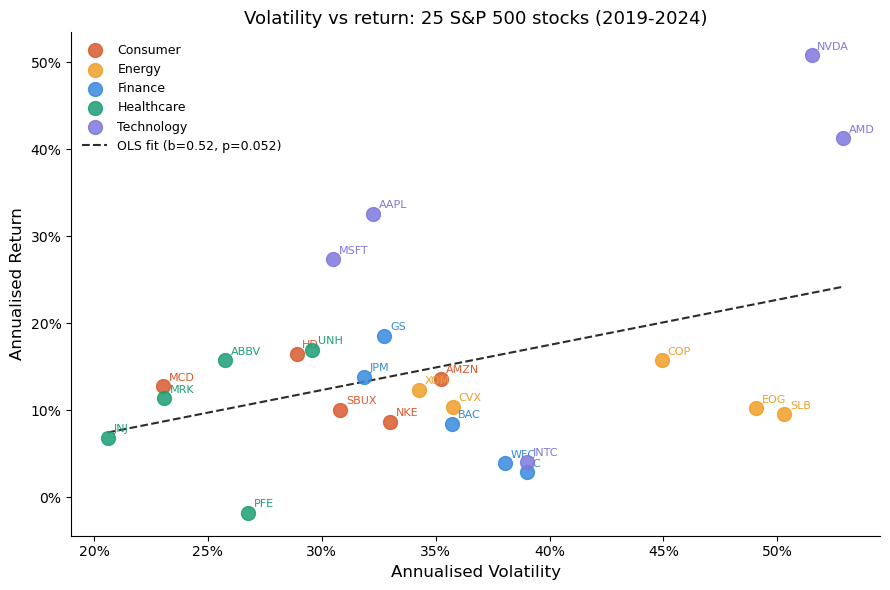
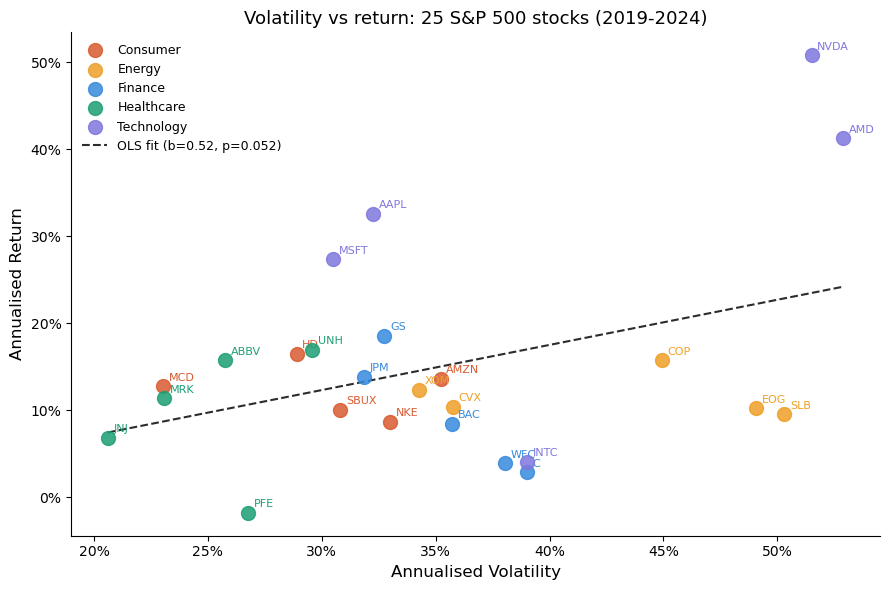
final project submission all files complete

diff --git a/notebooks/notebooks/blog.md b/notebooks/notebooks/blog.md
@@ -277,7 +277,6 @@ below summarises the estimated beta coefficient from each sector regression,
 with the p-value and R-squared shown in the accompanying table.
 
 
-
 ```python
 sector_results = {}
 for sector in df["sector"].unique():
@@ -509,16 +508,48 @@ strategy, asset mix, and geographic exposure. The result is a sector where
 picking the right individual stock matters enormously, rather than sector
 membership providing a reliable signal.
 
+## Stock rankings: who delivered the best returns?
+
+The chart below ranks all 25 stocks by annualised return, making it easy to
+see which individual stocks drove performance and whether top performers
+tended to be high or low volatility names.
+
+
+```python
+# Import the missing Patch class
+from matplotlib.patches import Patch
+
+ranked = df.sort_values("annual_return", ascending=True)
+
+fig, ax = plt.subplots(figsize=(8, 9))
+colors = [PALETTE[s] for s in ranked["sector"]]
+ax.barh(ranked["ticker"], ranked["annual_return"], color=colors, alpha=0.85)
+ax.axvline(0, color="#888780", linewidth=0.8)
+ax.xaxis.set_major_formatter(plt.FuncFormatter(lambda x,_: f"{x:.0%}"))
+ax.set_xlabel("Annualised Return", fontsize=11)
+ax.set_title("All 25 stocks ranked by annualised return (2019-2024)", fontsize=13)
+# Now Patch is properly imported and can be used to create legend elements
+legend_elements = [Patch(facecolor=PALETTE[s], label=s) for s in PALETTE]
+ax.legend(handles=legend_elements, frameon=False, fontsize=9)
+sns.despine()
+plt.tight_layout()
+plt.savefig("../figures/05_ranked_returns.png", dpi=150)
+plt.show()
+```
+
+
+    
+![png](notebooks/blog_files/notebooks/blog_13_0.png)
+    
+
+
 ## How does volatility evolve over time?
 
-So far we have treated volatility as a fixed characteristic of each stock,
-summarised by a single annualised number computed over five years. This is
-a useful simplification, but it obscures the dynamic reality that volatility
-is anything but constant. To illustrate how risk actually behaves through
-time, the chart below shows 30-day rolling volatility for three representative
-stocks: NVDA(high-risk technology), AMZN(mid-risk consumer), and JNJ(low-risk healthcare). These were chosen to represent high, medium,
-and low risk profiles. 
-
+Volatility is not a static property of a stock. It spikes during market stress
+and compresses during calm conditions. The 30-day rolling volatility chart
+below illustrates this for three stocks representing different risk profiles:
+NVDA (high-risk Technology), AMZN (mid-risk Consumer), and JNJ (low-risk
+Healthcare).
 
 
 ```python
@@ -542,7 +573,7 @@ plt.show()
 
 
     
-![png](notebooks/blog_files/notebooks/blog_13_0.png)
+![png](notebooks/blog_files/notebooks/blog_15_0.png)
     
 
 
@@ -576,64 +607,61 @@ figure to represent each stock's risk profile is therefore a reasonable
 approximation, even if it necessarily averages across very different periods.
 
 
+## Correlation between risk and return metrics
+
+The heatmap below shows the pairwise correlations between our three key
+metrics across all 25 stocks, giving a clean statistical summary of how
+strongly the variables relate to one another.
+
+
+```python
+corr = df[["annual_return","annual_volatility","sharpe_ratio"]].corr()
+corr.columns = ["Return","Volatility","Sharpe"]
+corr.index = ["Return","Volatility","Sharpe"]
+
+fig, ax = plt.subplots(figsize=(6, 5))
+sns.heatmap(corr, annot=True, fmt=".2f", cmap="RdYlGn",
+            center=0, ax=ax, linewidths=0.5, annot_kws={"size": 12})
+ax.set_title("Correlation matrix: return, volatility and Sharpe ratio", fontsize=13)
+plt.tight_layout()
+plt.savefig("../figures/06_correlation_heatmap.png", dpi=150)
+plt.show()
+```
+
+
+    
+![png](notebooks/blog_files/notebooks/blog_18_0.png)
+    
+
+
+All three stocks experienced a dramatic volatility spike in early 2020
+coinciding with the COVID-19 pandemic. NVDA's volatility briefly exceeded
+100% on an annualised basis while JNJ remained comparatively contained.
+The post-2022 period shows elevated volatility across all stocks, reflecting
+uncertainty from rising interest rates, which disproportionately affected
+growth stocks like NVDA whose valuations depend heavily on discounted future
+cash flows.
+
+The ranking of stocks by volatility is relatively stable over time, with NVDA
+consistently above AMZN, which sits above JNJ. This persistence justifies
+using time-averaged volatility as a stock characteristic, even if it masks
+short-run variation.
+
 ## Conclusion
 
-This analysis examined whether the textbook risk-return tradeoff holds across
-25 large-cap US stocks between January 2019 and January 2024. Using OLS
-regression, sector fixed effects, and rolling volatility analysis, we find
-results that are consistent with theory in some respects but reveal important
-heterogeneity across sectors and time periods.
+This analysis examined whether the textbook risk-return tradeoff holds across 25 large-cap US stocks between January 2019 and January 2024. Using OLS regression, sector fixed effects, and rolling volatility analysis, we find results that are consistent with theory in some respects but reveal important heterogeneity across sectors and time periods.
 
-Across all stocks, higher volatility is positively associated with higher
-returns, offering partial support for the CAPM prediction. However, this
-relationship is substantially driven by sector composition rather than a
-universal risk premium. When sector fixed effects are added, the R-squared
-rises considerably, confirming that sector membership is a major determinant
-of returns and that the simple cross-sectional relationship overstates the
-strength of the risk-return tradeoff.
+Across all stocks, higher volatility is positively associated with higher returns, offering partial support for the CAPM prediction. However, this relationship is substantially driven by sector composition rather than a universal risk premium. When sector fixed effects are added, the R-squared rises considerably, confirming that sector membership is a major determinant of returns and that the simple cross-sectional relationship overstates the strength of the risk-return tradeoff.
 
-The sector-level analysis reveals striking differences. Technology is the
-one sector where the risk-return tradeoff appears relatively robust, with
-economically meaningful and positive coefficients. Finance shows a negative
-beta, suggesting within-sector volatility is not rewarded in financial stocks,
-likely because bank volatility is driven by credit and regulatory risk rather
-than priced market risk. Energy and Consumer sectors show near-zero
-relationships, consistent with the idea that idiosyncratic firm-level
-volatility in these industries is largely diversifiable and therefore not
-compensated by the market.
+The sector-level analysis reveals striking differences. Technology is the one sector where the risk-return tradeoff appears relatively robust, with economically meaningful and positive coefficients. Finance shows a negative beta, suggesting within-sector volatility is not rewarded in financial stocks, likely because bank volatility is driven by credit and regulatory risk rather than priced market risk. Energy and Consumer sectors show near-zero relationships, consistent with the idea that idiosyncratic firm-level volatility in these industries is largely diversifiable and therefore not compensated by the market.
 
-There are several important limitations to acknowledge. First, the sample of
-25 stocks is small by the standards of empirical asset pricing research,
-which limits statistical power and means individual outliers can heavily
-influence results. Second, the sample suffers from survivorship bias: all
-stocks are large-cap S&P 500 constituents that survived the full five-year
-period. Firms that were delisted, went bankrupt, or were acquired during this
-time are excluded entirely. These firms would disproportionately have had
-high volatility and poor returns, meaning our estimated risk-return
-relationship is likely biased upward. Third, the sample period is
-dominated by two unusual episodes: the COVID-19 shock of 2020 and the
-aggressive Federal Reserve tightening of 2022 to 2023. Both events had
-asymmetric effects across sectors, potentially distorting the estimated
-sector-level betas.
+There are several important limitations to acknowledge. First, the sample of 25 stocks is small by the standards of empirical asset pricing research, which limits statistical power and means individual outliers can heavily influence results. Second, the sample suffers from survivorship bias: all stocks are large-cap S&P 500 constituents that survived the full five-year period. Firms that were delisted, went bankrupt, or were acquired during this time are excluded entirely. These firms would disproportionately have had high volatility and poor returns, meaning our estimated risk-return relationship is likely biased upward. Third, the sample period is dominated by two unusual episodes: the COVID-19 shock of 2020 and the aggressive Federal Reserve tightening of 2022 to 2023. Both events had asymmetric effects across sectors, potentially distorting the estimated sector-level betas.
 
-Future research could address these limitations in several ways. Extending
-the sample to a broader universe of stocks, including smaller firms and
-international markets, would improve generalisability. Using a longer time
-horizon spanning multiple business cycles would reduce the influence of any
-single episode. Incorporating additional risk factors such as the Fama-French
-size and value factors would allow a cleaner test of whether volatility
-commands a premium after accounting for other well-known return predictors.
+Future research could address these limitations in several ways. Extending the sample to a broader universe of stocks, including smaller firms and international markets, would improve generalisability. Using a longer time horizon spanning multiple business cycles would reduce the influence of any single episode. Incorporating additional risk factors such as the Fama-French size and value factors would allow a cleaner test of whether volatility commands a premium after accounting for other well-known return predictors.
 
-Despite these limitations, the findings offer a nuanced and empirically
-grounded view of the risk-return relationship. The tradeoff is real but not
-uniform. Sector membership matters as much as volatility level in determining
-whether risk is rewarded. Investors seeking to exploit a volatility premium
-would do better to focus within high-growth sectors like Technology rather
-than assuming the premium applies uniformly across the entire market.
+Despite these limitations, the findings offer a nuanced and empirically grounded view of the risk-return relationship. The tradeoff is real but not uniform. Sector membership matters as much as volatility level in determining whether risk is rewarded. Investors seeking to exploit a volatility premium would do better to focus within high-growth sectors like Technology rather than assuming the premium applies uniformly across the entire market.
 
-Data: Yahoo Finance via yfinance API. Period: January 2019 to January 2024.
-Analysis: OLS regression with and without sector fixed effects, 30-day rolling
-volatility. All code available at the GitHub repository linked above.
+Data: Yahoo Finance via yfinance API. Period: January 2019 to January 2024. Analysis: OLS regression with and without sector fixed effects, 30-day rolling volatility. All code available at the GitHub repository linked above.
 
 
 ```python
@@ -646,7 +674,7 @@ print(f"Figures saved: {sorted(os.listdir('../figures/'))}")
     Analysis complete.
     Stocks analysed: 25
     Sectors: ['Consumer', 'Energy', 'Finance', 'Healthcare', 'Technology']
-    Figures saved: ['.gitkeep', '01_scatter_main.png', '02_sector_betas.png', '03_sharpe_by_sector.png', '04_rolling_volatility.png']
+    Figures saved: ['.gitkeep', '.ipynb_checkpoints', '01_scatter_main.png', '02_sector_betas.png', '03_sharpe_by_sector.png', '04_rolling_volatility.png', '05_ranked_returns.png', '06_correlation_heatmap.png']
 
 
 
